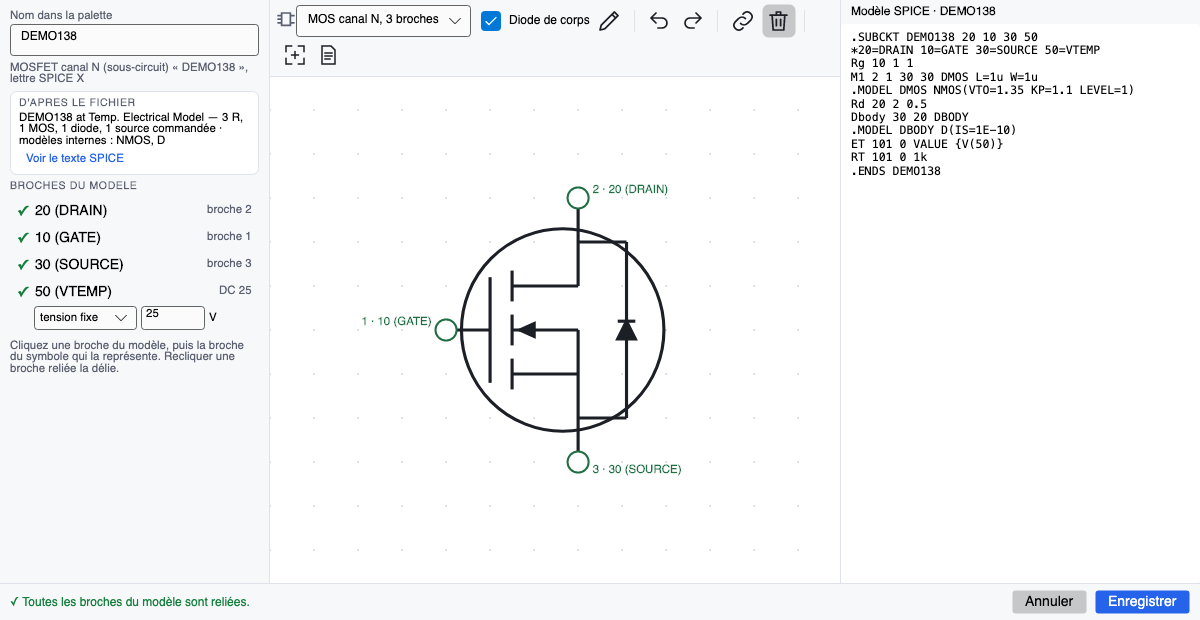
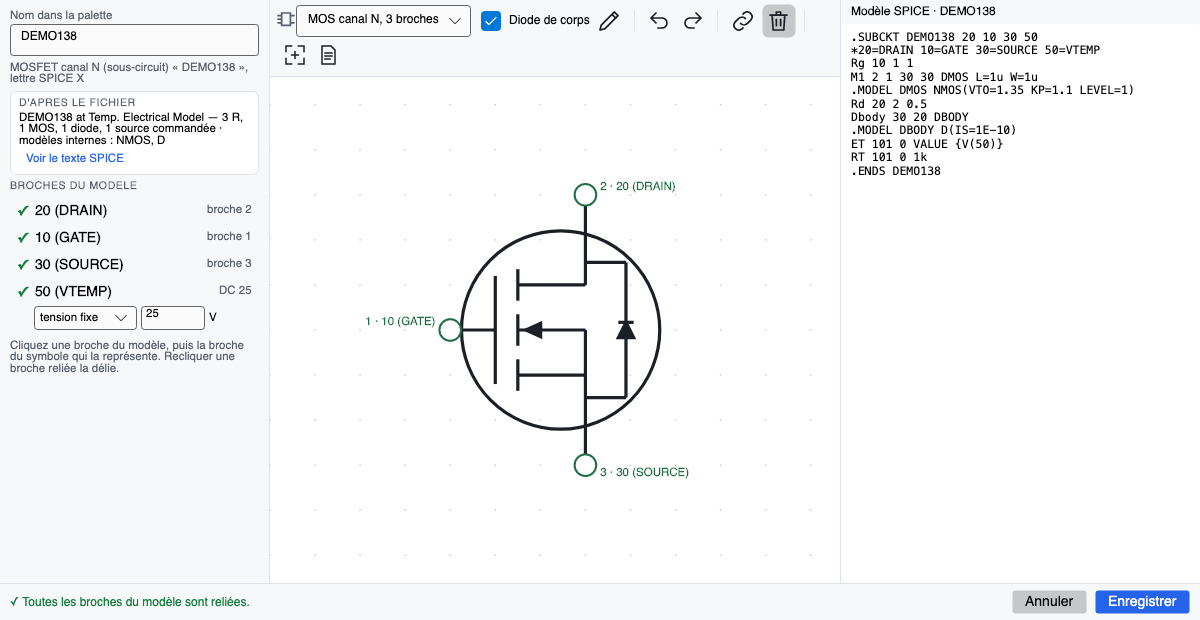
Sélection multiple par rectangle ; symbole MOS 3 broches corrigé
- Schéma : glisser depuis le fond ouvre un rectangle de sélection (Maj ajoute), Maj+clic bascule un élément ;
  la sélection se déplace d'un bloc (fils élastiques, fils sélectionnés entraînés), pivote et s'efface.
- MOS 3 broches : diode de corps plus petite, piquée à ±1,5, entièrement dans le cercle du boîtier ;
  sélection dans l'éditeur à épaisseur égale (seule la couleur change).

Changed region(s): [[0.3083, 0.2758, 0.5858, 0.7661]]

diff --git a/app/src/Silx.App/SchematicCanvas.cs b/app/src/Silx.App/SchematicCanvas.cs
@@ -40,6 +40,10 @@ public sealed class SchematicCanvas : Control
     double _zoom = 2.6; Point _pan = new(60, -60);
     GridPoint _cursor; GridPoint? _wireStart; bool _panning; Point _panLast; bool _inside;
     PlacedComponent? _selected; Wire? _selectedWire; PlacedComponent? _dragging; GridPoint _dragOffset; bool _dragMoved;
+    // Sélection multiple : composants et fils ; rectangle de sélection tracé depuis le fond.
+    readonly HashSet<PlacedComponent> _multi = new(); readonly HashSet<Wire> _multiWires = new();
+    Point? _boxStart; bool _boxAjout; List<Wire>? _dragFilsOrigine;
+    List<PlacedComponent>? _dragGroup;
     int _ghostRotation;
 
     static readonly IBrush Ink = new SolidColorBrush(Color.Parse("#1c1f26"));
@@ -173,23 +177,73 @@ public sealed class SchematicCanvas : Control
         Done(); SelectionChanged?.Invoke();
     }
 
-    public PlacedComponent? Selected => _selected;
-    void Select(PlacedComponent? c, Wire? w = null) { _selected = c; _selectedWire = w; SelectionChanged?.Invoke(); InvalidateVisual(); }
+    /// <summary>Composant sélectionné seul (propriétés) ; null si rien ou plusieurs éléments.</summary>
+    public PlacedComponent? Selected => _multi.Count + _multiWires.Count > 1 ? null : _selected;
+    /// <summary>Composants sélectionnés (un ou plusieurs).</summary>
+    public IReadOnlyCollection<PlacedComponent> Selection => _multi.Count > 0 ? _multi : _selected != null ? [_selected] : [];
+    public IReadOnlyCollection<Wire> FilsSelectionnes => _multiWires.Count > 0 ? _multiWires : _selectedWire != null ? [_selectedWire] : [];
+    void Select(PlacedComponent? c, Wire? w = null)
+    {
+        _selected = c; _selectedWire = w; _multi.Clear(); _multiWires.Clear();
+        if (c != null) _multi.Add(c); if (w != null) _multiWires.Add(w);
+        SelectionChanged?.Invoke(); InvalidateVisual();
+    }
+
+    /// <summary>Sélectionne les composants entièrement dans le rectangle (coordonnées écran) et les fils dont les deux bouts y sont.</summary>
+    public void SelectBox(Rect r, bool ajouter = false)
+    {
+        if (!ajouter) { _multi.Clear(); _multiWires.Clear(); }
+        foreach (var c in Schematic.Components.Where(c => c.Pins.All(p => r.Contains(ToScreen(p))))) _multi.Add(c);
+        foreach (var w in Schematic.Wires.Where(w => r.Contains(ToScreen(w.A)) && r.Contains(ToScreen(w.B)))) _multiWires.Add(w);
+        _selected = _multi.Count == 1 && _multiWires.Count == 0 ? _multi.First() : _multi.FirstOrDefault();
+        _selectedWire = _multiWires.Count == 1 && _multi.Count == 0 ? _multiWires.First() : null;
+        SelectionChanged?.Invoke(); InvalidateVisual();
+    }
+
+    void Basculer(PlacedComponent? c, Wire? w)
+    {
+        if (c != null && !_multi.Remove(c)) _multi.Add(c);
+        if (w != null && !_multiWires.Remove(w)) _multiWires.Add(w);
+        _selected = _multi.FirstOrDefault(); _selectedWire = _multi.Count == 0 && _multiWires.Count == 1 ? _multiWires.First() : null;
+        SelectionChanged?.Invoke(); InvalidateVisual();
+    }
+
+    /// <summary>Déplace la sélection (fils élastiques, fils sélectionnés entraînés), une entrée d'annulation.</summary>
+    public bool MoveSelection(GridPoint delta)
+    {
+        Commit();
+        var avant = Schematic.Components.ToDictionary(k => k, k => k.Pins.ToList());
+        DernierDeplacementSur = Elastique.Deplacer(Schematic, Selection.ToList(), delta, FilsSelectionnes.ToList());
+        var moves = new Dictionary<GridPoint, GridPoint>();
+        foreach (var (k, pins) in avant) foreach (var (a, b) in pins.Zip(k.Pins)) if (!a.Equals(b)) moves.TryAdd(a, b);
+        _multiWires.Clear(); SuivreCalques(moves); Done();
+        return DernierDeplacementSur;
+    }
 
     public void RotateSelected()
     {
-        if (_selected == null) { _ghostRotation = (_ghostRotation + 1) % 4; InvalidateVisual(); return; }
+        if (Selection.Count == 0) { _ghostRotation = (_ghostRotation + 1) % 4; InvalidateVisual(); return; }
         Commit();
-        var avant = _selected.Pins.ToList();
-        DernierDeplacementSur = Elastique.Pivoter(Schematic, _selected);
-        var moves = avant.Zip(_selected.Pins).Where(x => !x.First.Equals(x.Second)).ToDictionary(x => x.First, x => x.Second);
+        // HYPOTHÈSE : plusieurs composants pivotent chacun sur lui-même (pas autour du centre du groupe).
+        var moves = new Dictionary<GridPoint, GridPoint>(); bool sur = true;
+        foreach (var c in Selection.ToList())
+        {
+            var avant = c.Pins.ToList();
+            sur &= Elastique.Pivoter(Schematic, c);
+            foreach (var (a, b) in avant.Zip(c.Pins)) if (!a.Equals(b)) moves.TryAdd(a, b);
+        }
+        DernierDeplacementSur = sur;
         SuivreCalques(moves);
         Done();
     }
     public void DeleteSelected()
     {
-        if (_selected != null) { Commit(); Schematic.Components.Remove(_selected); Select(null); Done(); }
-        else if (_selectedWire != null) { Commit(); Schematic.Wires.Remove(_selectedWire); Select(null); Done(); }
+        var comps = Selection.ToList(); var fils = FilsSelectionnes.ToList();
+        if (comps.Count + fils.Count == 0) return;
+        Commit();
+        foreach (var c in comps) Schematic.Components.Remove(c);
+        foreach (var w in fils) Schematic.Wires.Remove(w);
+        Select(null); Done();
     }
     public void EditSelected(string reference, string value)
     {
@@ -231,8 +285,22 @@ public sealed class SchematicCanvas : Control
             case Tool.Select:
                 var hit = Schematic.Components.LastOrDefault(c => HitTest(c, pos));
                 var wire = hit == null ? Schematic.Wires.LastOrDefault(w => HitWire(w, pos)) : null;
-                Select(hit, wire);
-                if (hit != null) { _dragging = hit; _dragMoved = false; _dragOffset = new(g.X - hit.Position.X, g.Y - hit.Position.Y); _dragOrigin = Schematic.Clone(); _dragStart = hit.Position; Commit(); }
+                bool maj = e.KeyModifiers.HasFlag(KeyModifiers.Shift);
+                if (hit == null && wire == null)
+                {
+                    // Fond : rectangle de sélection (Maj : ajoute à la sélection).
+                    _boxStart = pos; _boxAjout = maj;
+                    if (!maj) Select(null);
+                    break;
+                }
+                if (maj) { Basculer(hit, wire); break; }
+                bool groupe = hit != null && _multi.Contains(hit) && _multi.Count + _multiWires.Count > 1;
+                if (!groupe) Select(hit, wire);
+                if (hit != null)
+                {
+                    _dragging = hit; _dragMoved = false; _dragOffset = new(g.X - hit.Position.X, g.Y - hit.Position.Y); _dragOrigin = Schematic.Clone(); _dragStart = hit.Position;
+                    _dragGroup = groupe ? _multi.ToList() : null; _dragFilsOrigine = groupe ? _multiWires.ToList() : null; Commit();
+                }
                 break;
             case Tool.Place:
                 Commit();
@@ -268,7 +336,13 @@ public sealed class SchematicCanvas : Control
                 for (int i = 0; i < Schematic.Components.Count && i < _dragOrigin.Components.Count; i++)
                     Schematic.Components[i].Position = _dragOrigin.Components[i].Position;
                 Schematic.Wires.Clear(); Schematic.Wires.AddRange(_dragOrigin.Wires);
-                DernierDeplacementSur = Elastique.Deplacer(Schematic, [_dragging], new GridPoint(np.X - _dragStart.X, np.Y - _dragStart.Y));
+                var delta = new GridPoint(np.X - _dragStart.X, np.Y - _dragStart.Y);
+                if (_dragGroup != null)
+                {
+                    // Groupe : fils sélectionnés repris de l'état d'origine (mêmes valeurs), entraînés avec le groupe.
+                    DernierDeplacementSur = Elastique.Deplacer(Schematic, _dragGroup, delta, _dragFilsOrigine);
+                }
+                else DernierDeplacementSur = Elastique.Deplacer(Schematic, [_dragging], delta);
                 _dragMoved = true;
             }
         }
@@ -278,6 +352,12 @@ public sealed class SchematicCanvas : Control
     protected override void OnPointerReleased(PointerReleasedEventArgs e)
     {
         _panning = false;
+        if (_boxStart is { } b0)
+        {
+            var b1 = e.GetPosition(this); _boxStart = null;
+            if (Math.Abs(b1.X - b0.X) > 4 || Math.Abs(b1.Y - b0.Y) > 4) SelectBox(new Rect(b0, b1).Normalize(), _boxAjout);
+            InvalidateVisual(); return;
+        }
         if (_zoomStart is { } z0)
         {
             var z1 = e.GetPosition(this); _zoomStart = null;
@@ -300,7 +380,8 @@ public sealed class SchematicCanvas : Control
                         if (!a.Equals(b)) moves.TryAdd(a, b);
                 SuivreCalques(moves);
             }
-            _dragging = null; _dragOrigin = null; Done();
+            if (_dragGroup != null) _multiWires.Clear();   // les fils entraînés ont changé de place
+            _dragging = null; _dragOrigin = null; _dragGroup = null; _dragFilsOrigine = null; Done();
         }
     }
     protected override void OnPointerWheelChanged(PointerWheelEventArgs e) => ZoomAt(e.GetPosition(this), e.Delta.Y > 0 ? 1.12 : 1 / 1.12);
@@ -385,7 +466,7 @@ public sealed class SchematicCanvas : Control
             }
             foreach (var c in _underlay.Components) DrawComponent(ctx, c, c.Kind == ComponentKind.Label ? LabelBrush : Ink, c.Kind == ComponentKind.Label ? 0.75 : 0.38, labels: true);
         }
-        foreach (var w in Schematic.Wires) ctx.DrawLine(w == _selectedWire ? new Pen(Accent, lw + 1) : wirePen, ToScreen(w.A), ToScreen(w.B));
+        foreach (var w in Schematic.Wires) ctx.DrawLine(w == _selectedWire || _multiWires.Contains(w) ? new Pen(Accent, lw + 1) : wirePen, ToScreen(w.A), ToScreen(w.B));
 
         // Jonctions : point plein là où au moins 3 éléments se rejoignent (circuit et banc confondus).
         var allWires = AllWires.ToList();
@@ -405,7 +486,7 @@ public sealed class SchematicCanvas : Control
             foreach (var p in AllComponents.SelectMany(c => c.Pins).Where(p => conn.NodeOf.TryGetValue(p, out var n) && n == pn))
                 ctx.DrawEllipse(new SolidColorBrush(Color.Parse("#f59e0b"), 0.7), null, ToScreen(p), 6, 6);
         }
-        foreach (var c in Schematic.Components) DrawComponent(ctx, c, c == _selected ? Accent : layer ? BenchBrush : c.Kind == ComponentKind.Label ? LabelBrush : Ink, 1);
+        foreach (var c in Schematic.Components) DrawComponent(ctx, c, c == _selected || _multi.Contains(c) ? Accent : layer ? BenchBrush : c.Kind == ComponentKind.Label ? LabelBrush : Ink, 1);
         if (_tool == Tool.Probe && _inside)
         {
             // Pointe de sonde + nom du nœud visé.
@@ -440,6 +521,11 @@ public sealed class SchematicCanvas : Control
             var a = s; var g = _cursor;
             if (a.X != g.X && a.Y != g.Y) { var m = new GridPoint(g.X, a.Y); ctx.DrawLine(dash, ToScreen(a), ToScreen(m)); ctx.DrawLine(dash, ToScreen(m), ToScreen(g)); }
             else ctx.DrawLine(dash, ToScreen(a), ToScreen(g));
+        }
+        if (_boxStart is { } bs && _inside)
+        {
+            var r = new Rect(bs, _lastPos).Normalize();
+            ctx.DrawRectangle(new SolidColorBrush(Color.Parse("#2563eb"), 0.06), new Pen(Accent, 1, new DashStyle([4, 3], 0)), r);
         }
         if (_zoomStart is { } zs && _inside)
         {

diff --git a/app/tests/Silx.App.Tests/UiTests.cs b/app/tests/Silx.App.Tests/UiTests.cs
@@ -265,4 +265,35 @@ public class UiTests
         Avalonia.Threading.Dispatcher.UIThread.RunJobs();
         Assert.Equal(Silx.Etude.AnalyseKind.Ac, w.BancActif!.Type);
     }
+
+    /// <summary>Rectangle de sélection depuis le fond (circuit sous test) : R1 et C1, puis déplacement de groupe et suppression.</summary>
+    [AvaloniaFact]
+    public void Selection_multiple_par_rectangle()
+    {
+        var w = new MainWindow { Width = 1440, Height = 900 }; w.Show();
+        w.SelectBanc(null);
+        Avalonia.Threading.Dispatcher.UIThread.RunJobs();
+        var cv = w.Canevas;
+        Point Ecran(int x, int y) => cv.TranslatePoint(cv.ScreenOf(new Silx.Etude.GridPoint(x, y)), w)!.Value;
+        // R1 (4,8)-(8,8), C1 (12,8)-(12,12) ; le rectangle va de (3,5) à (13,13) : masse et étiquettes comprises.
+        var a = Ecran(3, 6); var b = Ecran(14, 14);
+        w.MouseDown(a, Avalonia.Input.MouseButton.Left); w.MouseMove(b); w.MouseUp(b, Avalonia.Input.MouseButton.Left);
+        Avalonia.Threading.Dispatcher.UIThread.RunJobs();
+        Assert.Contains(cv.Selection, c => c.Ref == "R1"); Assert.Contains(cv.Selection, c => c.Ref == "C1");
+        Assert.Null(cv.Selected);
+        Assert.True(cv.FilsSelectionnes.Count >= 2);
+        Shot(w, "24-selection-multiple.png");
+        // Glisser le groupe de 2 pas vers la droite : connexions conservées.
+        var conn0 = Silx.Etude.Connectivity.Build(w.EtudeCourante.Schema).AllNodes.Count;
+        var r1 = Ecran(6, 8);
+        w.MouseDown(r1, Avalonia.Input.MouseButton.Left); w.MouseMove(Ecran(8, 8)); w.MouseUp(Ecran(8, 8), Avalonia.Input.MouseButton.Left);
+        Avalonia.Threading.Dispatcher.UIThread.RunJobs();
+        Assert.Equal(new Silx.Etude.GridPoint(6, 8), w.EtudeCourante.Schema.Components.Single(c => c.Ref == "R1").Position);
+        Assert.Equal(new Silx.Etude.GridPoint(14, 8), w.EtudeCourante.Schema.Components.Single(c => c.Ref == "C1").Position);
+        Assert.Equal(conn0, Silx.Etude.Connectivity.Build(w.EtudeCourante.Schema).AllNodes.Count);
+        // Suppression de la sélection
+        cv.SelectBox(new Rect(cv.ScreenOf(new Silx.Etude.GridPoint(5, 6)), cv.ScreenOf(new Silx.Etude.GridPoint(15, 14))));   // repère du canevas
+        cv.DeleteSelected();
+        Assert.DoesNotContain(w.EtudeCourante.Schema.Components, c => c.Ref is "R1" or "C1");
+    }
 }

diff --git a/app/src/Silx.Etude/GabaritsSymboles.cs b/app/src/Silx.Etude/GabaritsSymboles.cs
@@ -85,10 +85,11 @@ public static class GabaritsSymboles
                 else t.Add(Primitive.Trait(3, 0, 3, 1));
                 if (s.DiodeCorps)
                 {
-                    // Diode de corps (petite) : anode côté source pour un canal N (cathode au drain), l'inverse pour un canal P.
-                    const double xd = 4.1, h = 0.2;
-                    t.Add(Primitive.Trait(3, -2, xd, -2)); t.Add(Primitive.Trait(xd, -2, xd, -h));
-                    t.Add(Primitive.Trait(3, 2, xd, 2)); t.Add(Primitive.Trait(xd, 2, xd, h));
+                    // Diode de corps, petite et dans le boîtier : piquée sur le drain et la source à ±1,5 ; anode côté source
+                    // pour un canal N (cathode au drain), l'inverse pour un canal P.
+                    const double xd = 3.9, yb = 1.5, h = 0.17;
+                    t.Add(Primitive.Trait(3, -yb, xd, -yb)); t.Add(Primitive.Trait(xd, -yb, xd, -h));
+                    t.Add(Primitive.Trait(3, yb, xd, yb)); t.Add(Primitive.Trait(xd, yb, xd, h));
                     if (canalN) { t.Add(Primitive.Poly(true, xd - h, h, xd + h, h, xd, -h)); t.Add(Primitive.Trait(xd - h, -h, xd + h, -h)); }
                     else { t.Add(Primitive.Poly(true, xd - h, -h, xd + h, -h, xd, h)); t.Add(Primitive.Trait(xd - h, h, xd + h, h)); }
                 }
@@ -97,7 +98,7 @@ public static class GabaritsSymboles
                 t.Add(Primitive.Trait(1.5, -1, 3, -1)); t.Add(Primitive.Trait(3, -1, 3, -3));
                 t.Add(Primitive.Trait(1.5, 1, 3, 1)); t.Add(Primitive.Trait(3, 1, 3, 3));
                 // MOS discret (3 broches) : cercle du boîtier.
-                if (trois) t.Add(s.DiodeCorps ? Primitive.Cercle(2.65, 0, 2.3) : Primitive.Cercle(2.2, 0, 2.05));
+                if (trois) t.Add(s.DiodeCorps ? Primitive.Cercle(2.45, 0, 2.2) : Primitive.Cercle(2.2, 0, 2.05));
                 t.Add(canalN ? Primitive.Fleche(3, 0, 1.5, 0) : Primitive.Fleche(1.5, 0, 3, 0));
                 break;
             }

diff --git a/app/src/Silx.App/EditeurSymbole.cs b/app/src/Silx.App/EditeurSymbole.cs
@@ -409,7 +409,7 @@ public sealed class EditeurSymbole : Window
             for (double x = o.X % d; x < Bounds.Width; x += d) for (double y = o.Y % d; y < Bounds.Height; y += d) ctx.FillRectangle(dot, new Rect(x - .75, y - .75, 1.5, 1.5));
             FormattedText T(string s, double size, IBrush b, FontWeight w) => new(s, System.Globalization.CultureInfo.InvariantCulture, FlowDirection.LeftToRight, new Typeface(FontFamily.Default, FontStyle.Normal, w), size * d / 24 + 5, b);
             Symboles.DessinerSymbole(ctx, S, Ecran, d, Ui.Ink, new Pen(Ui.Ink, Math.Max(1.3, d / 14)), T);
-            var acc = new Pen(Ui.AccentBrush, Math.Max(2.2, d / 9));
+            var acc = new Pen(Ui.AccentBrush, Math.Max(1.3, d / 14));   // même épaisseur que le dessin : seule la couleur signale la sélection
             if (_e.PrimitiveChoisie is { } ps && ps < S.Traits.Count)
                 Symboles.DessinerSymbole(ctx, new Symbole { Traits = [S.Traits[ps]] }, Ecran, d, Ui.AccentBrush, acc, T);
             if (_p0 is { } a0 && _p1 is { } a1)

diff --git a/app/src/Silx.App/MainWindow.cs b/app/src/Silx.App/MainWindow.cs
@@ -987,7 +987,10 @@ public sealed class MainWindow : Window
         var c = _canvas.Selected;
         if (c == null)
         {
-            _props.Children.Add(new TextBlock { Text = "Sélectionnez un composant sur le schéma pour modifier sa référence et sa valeur.", TextWrapping = TextWrapping.Wrap, Foreground = Ui.Muted, FontSize = 12 });
+            int n = _canvas.Selection.Count, nf = _canvas.FilsSelectionnes.Count;
+            _props.Children.Add(new TextBlock { Text = n + nf > 1
+                ? $"{n} composant(s) et {nf} fil(s) sélectionnés : glisser pour déplacer, ⌘R pour pivoter, Suppr pour effacer. Maj+clic ajoute ou retire un élément."
+                : "Sélectionnez un composant sur le schéma pour modifier sa référence et sa valeur. Glissez depuis le fond pour sélectionner plusieurs éléments.", TextWrapping = TextWrapping.Wrap, Foreground = Ui.Muted, FontSize = 12 });
             return;
         }
         var kindName = c.Kind switch
